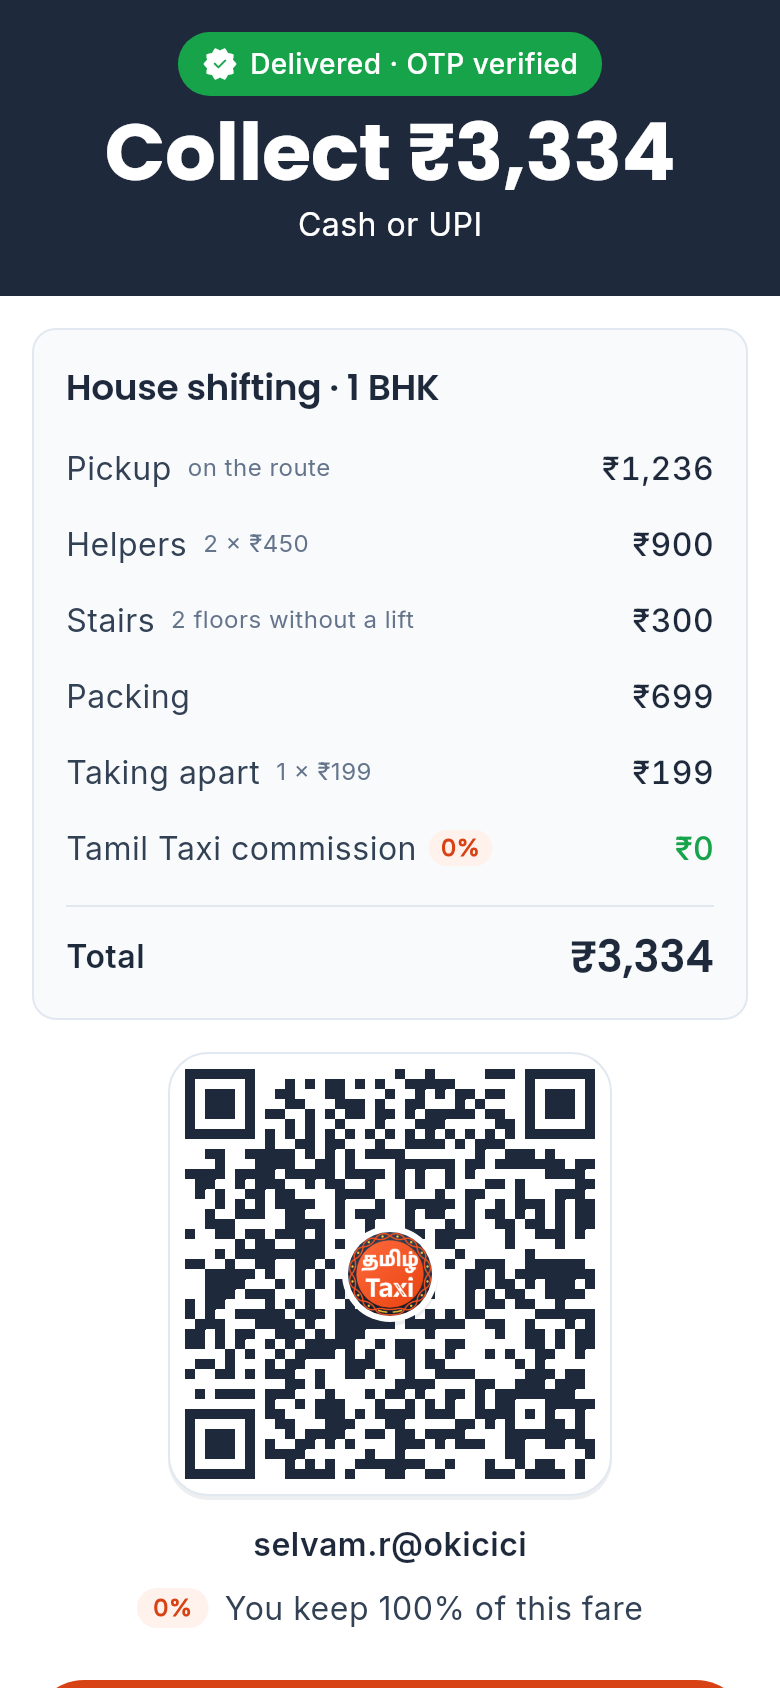
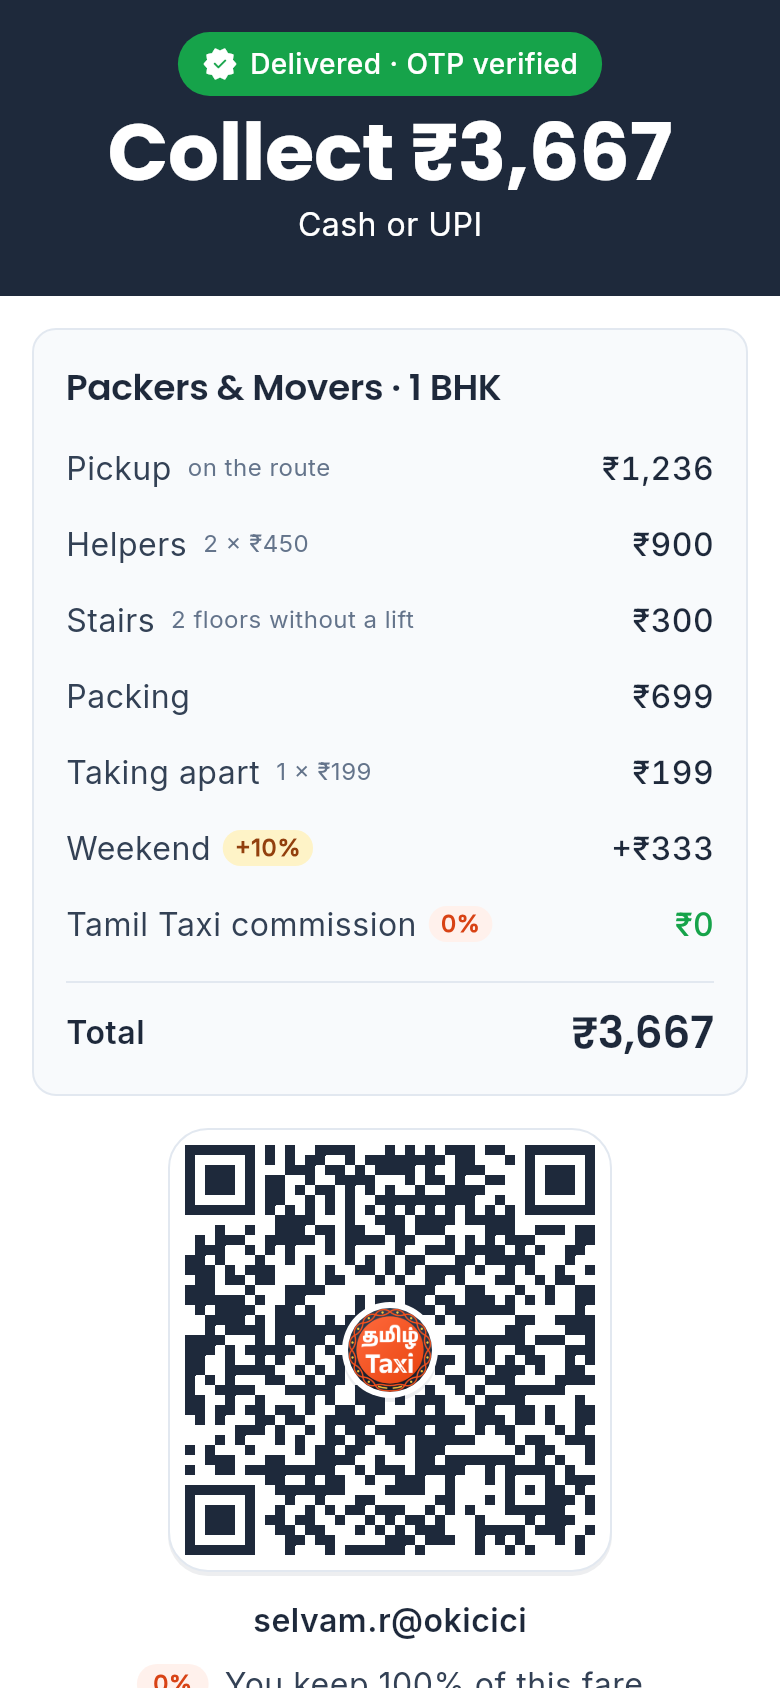
feat(passenger,driver,admin,api): call house shifting "Packers & Movers"
"Packers & Movers" is the name people know from the moving trade, so the
apps, admin and API messages use it instead of "House shifting": the rider's
moving steps and Upcoming card, the driver's request card, voice line
("New packers and movers job"), booking preference ("Packers & Movers
jobs") and collect screen, the offer push, admin's trip / driver cards and
the pricing section, and the API's error messages. Code, fields and enums
keep `shifting`. Design screenshots and index renamed to match.

diff --git a/apps/driver/lib/features/jobs/widgets/request_stack_view.dart b/apps/driver/lib/features/jobs/widgets/request_stack_view.dart
@@ -17,7 +17,7 @@ enum RequestPerk {
   butterfly('Butterfly', Symbols.female_rounded, TtColors.butterfly600, TtColors.butterfly50),
 
   /// House shifting: a goods truck with helpers for a slot (the card has a band with the home and the team).
-  shifting('House shifting', Symbols.home_rounded, TtColors.coral700, TtColors.coral50),
+  shifting('Packers & Movers', Symbols.home_rounded, TtColors.coral700, TtColors.coral50),
 
   /// A cab by the hour, or a trip to another town (the card has a band saying which, and when for later).
   rental('Rental', Symbols.timer_rounded, TtColors.navy900, TtColors.infoTint),
@@ -231,7 +231,7 @@ class _RequestStackViewState extends State<RequestStackView> {
   /// "New ride request", "New rental request", "2 delivery requests", or "3 requests" when rides and parcels are
   /// mixed.
   String _title(List<StackEntry> entries) {
-    if (entries.length == 1 && entries.single.request.isShifting) return 'New house shifting request';
+    if (entries.length == 1 && entries.single.request.isShifting) return 'New Packers & Movers request';
     if (entries.length == 1 && entries.single.request.isRental) return 'New rental request';
     if (entries.length == 1 && entries.single.request.isOutstation) return 'New outstation request';
     final deliveries = entries.where((e) => e.request.isDelivery).length;
@@ -517,7 +517,7 @@ class _ModeBand extends StatelessWidget {
     final shift = r.shifting;
     final (label, icon, what) = switch (r.modeTerms) {
       _ when shift != null => (
-          'House shifting',
+          'Packers & Movers',
           Symbols.home_rounded,
           [shift.homeSize.label, if (shift.lines case final l?) '${l.helperCount} helpers', if (r.isOutstation) 'another town'].join(' · '),
         ),

diff --git a/apps/passenger/lib/features/design_gallery/gallery_registry.dart b/apps/passenger/lib/features/design_gallery/gallery_registry.dart
@@ -151,11 +151,11 @@ final List<GalleryEntry> galleryEntries = [
   _e('PP-08', 'Driver assigned · picking up', _p4, (_) => const PP08ParcelDriverAssignedScreen(showcase: true)),
   _e('PP-09', 'Parcel in transit', _p4, (_) => const PP09ParcelInTransitScreen(showcase: true)),
   _e('PP-10', 'Parcel delivered', _p4, (_) => const PP10ParcelDeliveredScreen(showcase: true)),
-  _e('PH-01', 'House shifting · moving details', _p4, (_) => const PH01MovingDetailsScreen(showcase: true)),
-  _e('PH-02', 'House shifting · items (typed)', _p4, (_) => const PH02ItemsScreen(showcase: true)),
-  _e('PH-03', 'House shifting · day and extras', _p4, (_) => const PH03ScheduleScreen(showcase: true)),
-  _e('PH-04', 'House shifting · review', _p4, (_) => const PH04ReviewScreen(showcase: true)),
-  _e('PH-05', 'House shifting · booked', _p4, (_) => P36BookedLaterScreen(trip: _sampleShift(), showcase: true)),
+  _e('PH-01', 'Packers & Movers · moving details', _p4, (_) => const PH01MovingDetailsScreen(showcase: true)),
+  _e('PH-02', 'Packers & Movers · items (typed)', _p4, (_) => const PH02ItemsScreen(showcase: true)),
+  _e('PH-03', 'Packers & Movers · day and extras', _p4, (_) => const PH03ScheduleScreen(showcase: true)),
+  _e('PH-04', 'Packers & Movers · review', _p4, (_) => const PH04ReviewScreen(showcase: true)),
+  _e('PH-05', 'Packers & Movers · booked', _p4, (_) => P36BookedLaterScreen(trip: _sampleShift(), showcase: true)),
   // Part 7
   _e('S-01', 'No drivers nearby', _p7, (_) => const S01NoDriversScreen(showcase: true)),
   _e('S-02', 'Driver cancelled', _p7, (_) => const S02DriverCancelledScreen(showcase: true)),

diff --git a/apps/driver/test/booking_prefs_test.dart b/apps/driver/test/booking_prefs_test.dart
@@ -70,7 +70,7 @@ void main() {
     expect(BookingPrefs.fromJson(const {}).shifting, isFalse);
     final mover = BookingPrefs.fromJson(const {'shifting': true, 'helpers': 12});
     expect((mover.shifting, mover.helpers), (true, 8));
-    expect(const BookingPrefs(shifting: true, helpers: 3).summary, 'house shifting with 3 helpers');
+    expect(const BookingPrefs(shifting: true, helpers: 3).summary, 'Packers & Movers with 3 helpers');
   });
 
   test('Go To and Stay In are never on together', () {
@@ -133,7 +133,7 @@ void main() {
   testWidgets('a goods-truck driver switches house shifting on and says how many helpers they bring', (tester) async {
     final container = await pumpRoute(tester, '/account/booking-preferences', overrides: [driverProfileProvider.overrideWith(_Mover.new)]);
     expect(find.text('Parcels too'), findsNothing, reason: 'bikes only');
-    await center(tester, find.text('House shifting jobs'));
+    await center(tester, find.text('Packers & Movers jobs'));
     expect(find.text('Helpers you bring'), findsNothing);
     await tester.tap(find.byType(Switch).last);
     await tester.pump();
@@ -153,7 +153,7 @@ void main() {
 
   testWidgets('a bike driver has no house shifting', (tester) async {
     await pumpRoute(tester, '/account/booking-preferences');
-    expect(find.text('House shifting jobs', skipOffstage: false), findsNothing);
+    expect(find.text('Packers & Movers jobs', skipOffstage: false), findsNothing);
   });
 
   testWidgets('add an area, turn Go To on, then Stay In there within 8 km (Go To goes off)', (tester) async {

diff --git a/apps/driver/lib/features/design_gallery/gallery_registry.dart b/apps/driver/lib/features/design_gallery/gallery_registry.dart
@@ -112,14 +112,14 @@ final List<GalleryEntry> galleryEntries = [
   _e('D-19c', 'Collect payment · rental with extra km and time', _p6,
       (_) => D19CollectPaymentScreen(showcase: true, sample: _settledRental())),
   _e('D-20', 'Incoming delivery request', _p6, (_) => const D20DeliveryRequestScreen(showcase: true)),
-  _e('D-20c', 'Incoming request · house shifting', _p6,
+  _e('D-20c', 'Incoming request · Packers & Movers', _p6,
       (_) => D20DeliveryRequestScreen(showcase: true, sample: Seed.shiftingRequest)),
   _e('D-21', 'Delivery in progress', _p6, (_) => const D21DeliveryInProgressScreen(showcase: true)),
-  _e('D-21c', 'House shifting · at the pickup', _p6,
+  _e('D-21c', 'Packers & Movers · at the pickup', _p6,
       (_) => D21DeliveryInProgressScreen(showcase: true, sample: Seed.shiftingRequest, samplePhase: JobPhase.atPickup)),
   _e('D-22a', 'Complete delivery with OTP', _p6, (_) => const D22DeliveryOtpScreen(showcase: true)),
   _e('D-22b', 'Collect from receiver', _p6, (_) => const D19CollectPaymentScreen(delivery: true, showcase: true)),
-  _e('D-22c', 'Collect · house shifting', _p6,
+  _e('D-22c', 'Collect · Packers & Movers', _p6,
       (_) => D19CollectPaymentScreen(delivery: true, showcase: true, sample: Seed.shiftingRequest)),
   _e('D-23', 'Earnings', _p6, (_) => const D23EarningsScreen(showcase: true)),
   _e('D-23b', 'Earnings · trip detail sheet', _p6,

diff --git a/apps/admin/src/app/(panel)/trips/[id]/page.tsx b/apps/admin/src/app/(panel)/trips/[id]/page.tsx
@@ -81,7 +81,7 @@ export default async function TripPage({ params }: PageProps<"/trips/[id]">) {
           </span>
         }
         description={[
-          t.shifting ? "House shifting" : isParcel ? "Parcel" : "Ride",
+          t.shifting ? "Packers & Movers" : isParcel ? "Parcel" : "Ride",
           t.rideMode === "RENTAL" ? "rental" : t.rideMode === "OUTSTATION" ? "to another town" : null,
           vehicleLabel(t.vehicleKind),
           `booked ${formatDateTime(t.createdAt)}`,
@@ -558,7 +558,7 @@ function ShiftingCard({ s }: { s: ShiftingInfo }) {
     <Card className="lg:col-span-3">
       <CardHeader>
         <CardTitle className="flex items-center gap-2 font-semibold">
-          <HomeIcon className="size-4 text-coral-600" /> House shifting
+          <HomeIcon className="size-4 text-coral-600" /> Packers &amp; Movers
         </CardTitle>
         <CardDescription>
           {HOME_SIZE[s.homeSize]} · {s.between ? "to another town" : "in town"}

diff --git a/apps/api/src/modules/trips/trips.service.ts b/apps/api/src/modules/trips/trips.service.ts
@@ -124,7 +124,7 @@ export class TripsService {
     const isGoods = FARE_RULES[dto.vehicleKind].isGoods;
     if (isGoods !== (dto.kind === TripKind.PARCEL)) throw new BadRequestException('Vehicle does not match trip kind');
     if (shifting) {
-      if (!isGoodsTruck(dto.vehicleKind)) throw new BadRequestException('House shifting is by three-wheeler, mini truck, pickup or truck');
+      if (!isGoodsTruck(dto.vehicleKind)) throw new BadRequestException('Packers & Movers goes by three-wheeler, mini truck, pickup or truck');
       if (!shifting.items?.length) throw new BadRequestException('Add the things you are moving');
     } else if (mode !== RideMode.LOCAL && dto.kind === TripKind.PARCEL) {
       if (mode !== RideMode.OUTSTATION || !isGoodsTruck(dto.vehicleKind)) {

diff --git a/apps/api/src/modules/fares/fares.service.ts b/apps/api/src/modules/fares/fares.service.ts
@@ -212,7 +212,7 @@ export class FaresService {
     const rates = pricing.shifting;
     const suggested = rates.sizes[p.details.homeSize].vehicle;
     const kind = p.vehicleKind ?? suggested;
-    if (!isGoodsTruck(kind)) throw new BadRequestException('House shifting is by three-wheeler, mini truck, pickup or truck');
+    if (!isGoodsTruck(kind)) throw new BadRequestException('Packers & Movers goes by three-wheeler, mini truck, pickup or truck');
     const route = await this.maps.estimate({ from: p.pickup, to: p.drop, vehicleKind: FaresService.routeVehicle(true) });
     const s = await this.settings.all();
     const plan = { distanceKm: route.distanceKm, durationMin: route.durationMin, ...(typeof route.travelMin === 'number' && { travelMin: route.travelMin }) };

diff --git a/apps/driver/lib/state/request_voice.dart b/apps/driver/lib/state/request_voice.dart
@@ -119,7 +119,7 @@ abstract final class RequestSpeech {
     final helpers = shift?.lines?.helperCount;
     return switch (language) {
       VoiceLanguage.english => '${switch (terms) {
-            _ when shift != null => 'New house shifting, ${shift.homeSize.label}${helpers == null ? '' : ', bring $helpers helpers'}',
+            _ when shift != null => 'New packers and movers job, ${shift.homeSize.label}${helpers == null ? '' : ', bring $helpers helpers'}',
             RentalTerms t => 'New rental, ${t.hours} ${t.hours == 1 ? 'hour' : 'hours'}',
             OutstationTerms() => 'New outstation trip to ${r.drop.name}${roundTrip ? ', round trip' : ''}',
             null => r.isDelivery ? 'New delivery' : 'New ride',

diff --git a/apps/admin/src/app/(panel)/drivers/[id]/page.tsx b/apps/admin/src/app/(panel)/drivers/[id]/page.tsx
@@ -172,7 +172,7 @@ export default async function DriverPage({ params }: PageProps<"/drivers/[id]">)
               <Field label="Model">{d.vehicleModel}</Field>
               <Field label="Colour">{d.vehicleColor || "–"}</Field>
               {GOODS_TRUCKS.includes(d.vehicleKind as GoodsTruck) && (
-                <Field label="House shifting" className="col-span-2">
+                <Field label="Packers & Movers" className="col-span-2">
                   {d.bookingPrefs?.shifting
                     ? `Takes moves · brings ${d.bookingPrefs.helpers ?? 2} helper${(d.bookingPrefs.helpers ?? 2) === 1 ? "" : "s"}`
                     : "Not taking moves (switched off in the driver app)"}

diff --git a/apps/api/src/modules/drivers/drivers.service.ts b/apps/api/src/modules/drivers/drivers.service.ts
@@ -96,7 +96,7 @@ export class DriversService {
     if (dto.goTo && dto.stayIn) throw new BadRequestException('Turn off Go To to use Stay In');
     if (dto.shifting) {
       const { vehicleKind } = await this.prisma.driver.findUniqueOrThrow({ where: { id: driverId }, select: { vehicleKind: true } });
-      if (!isGoodsTruck(vehicleKind)) throw new BadRequestException('House shifting is for three-wheeler, mini truck, pickup and truck drivers');
+      if (!isGoodsTruck(vehicleKind)) throw new BadRequestException('Packers & Movers jobs are for three-wheeler, mini truck, pickup and truck drivers');
     }
     const now = new Date();
     const current = await this.bookingPrefs(driverId);

diff --git a/apps/driver/test/request_stack_test.dart b/apps/driver/test/request_stack_test.dart
@@ -245,7 +245,7 @@ void main() {
   testWidgets('a house shift: band with the home and team, the slot, items and floors at both ends', (tester) async {
     final r = Seed.shiftingRequest;
     await pump(tester, [(request: r, expiresAt: DateTime.now().add(const Duration(seconds: 12)))]);
-    expect(find.text('New house shifting request'), findsOneWidget);
+    expect(find.text('New Packers & Movers request'), findsOneWidget);
     expect(find.text('1 BHK · 2 helpers'), findsOneWidget);
     expect(find.text('Pickup Tomorrow, 9–11 AM'), findsOneWidget);
     expect(find.text('16 items'), findsOneWidget);

diff --git a/apps/passenger/lib/features/ride/widgets/upcoming_trip_card.dart b/apps/passenger/lib/features/ride/widgets/upcoming_trip_card.dart
@@ -9,7 +9,7 @@ import '../../../state/shifting_flow.dart' show slotLabel;
 /// What a trip booked for later is: "Rental · 4 hrs · 40 km", "Outstation · round trip", "House shifting · 1 BHK",
 /// "Goods · another town".
 String modeLabelOf(Trip trip) {
-  if (trip.shifting case final s?) return 'House shifting · ${s.homeSize.label}';
+  if (trip.shifting case final s?) return 'Packers & Movers · ${s.homeSize.label}';
   if (trip.isParcel) return trip.rideMode == RideMode.outstation ? 'Goods · another town' : 'Parcel';
   return rideModeLabel(trip.rideMode, trip.modeTerms) ?? 'Ride';
 }
